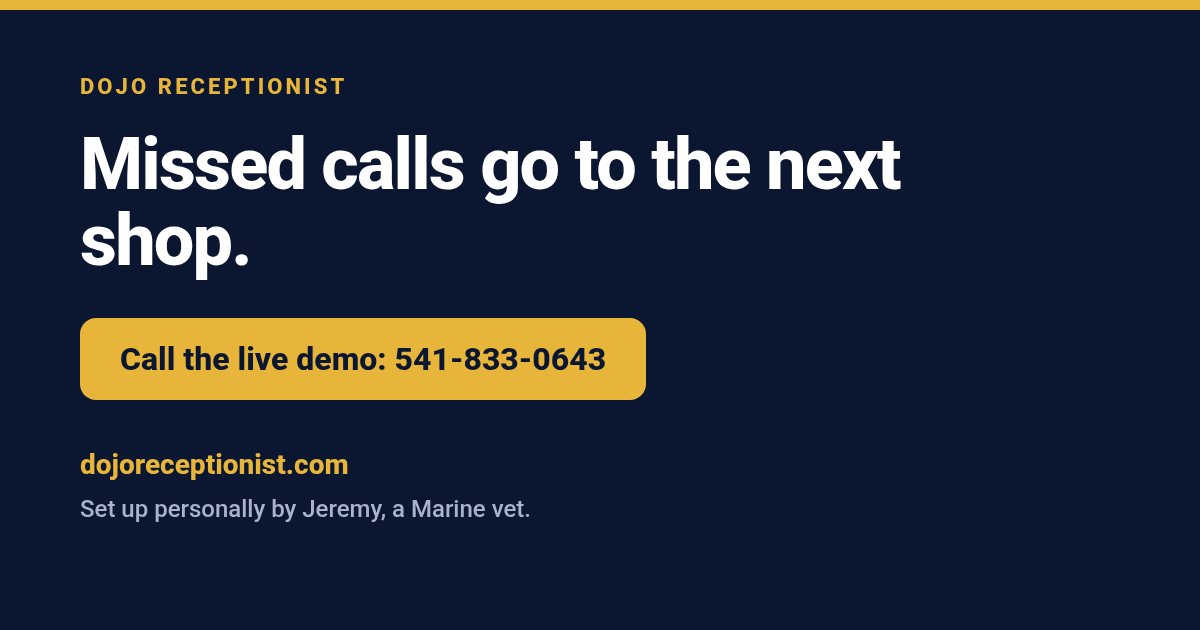
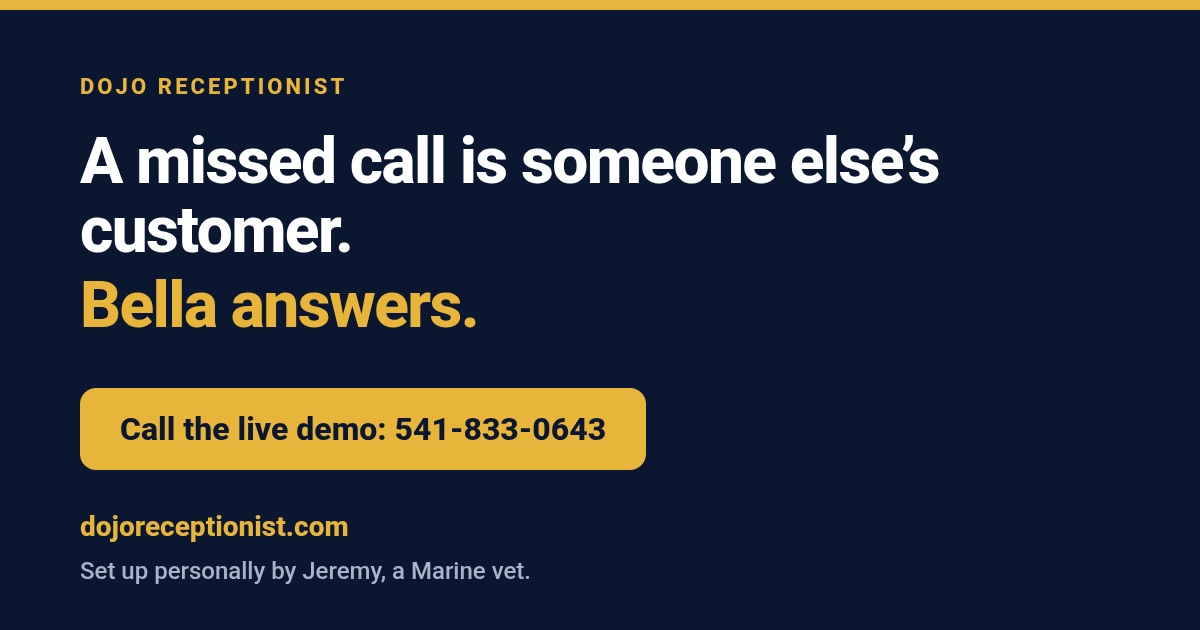
Match the partner-card hook in the hero, title, and share image.
Replace the truck headline with "A missed call is someone else's
customer" and a gold "Bella answers." Title, OG tags, and og-share.png
use the same line. Pricing, the three nevers, and the demo number are
unchanged.

Changed region(s): [[0.0617, 0.3317, 0.555, 0.754], [0.0617, 0.2111, 0.8017, 0.3317], [0.0617, 0.7841, 0.4317, 0.9349]]

diff --git a/index.html b/index.html
@@ -8,15 +8,15 @@
 <head>
 <meta charset="utf-8">
 <meta name="viewport" content="width=device-width,initial-scale=1,viewport-fit=cover">
-<title>Dojo Receptionist · Missed calls answered for owner-run shops</title>
-<meta name="description" content="Bella, an honest AI receptionist, answers your shop's missed and after-hours calls and emails you who called and what they need. Set up for you personally by Jeremy, a Marine vet.">
+<title>Dojo Receptionist · A missed call is someone else's customer</title>
+<meta name="description" content="A missed call is someone else's customer. Bella answers: an honest AI receptionist who takes the calls you miss and emails you who called and what they need. Set up for you personally by Jeremy, a Marine vet.">
 <meta name="theme-color" content="#0a0d18">
 <link rel="icon" href="/assets/favicon.ico" sizes="any">
 <link rel="icon" type="image/png" sizes="32x32" href="/assets/favicon-32.png">
 <link rel="icon" type="image/png" sizes="16x16" href="/assets/favicon-16.png">
 <link rel="apple-touch-icon" href="/assets/apple-touch-icon.png">
-<meta property="og:title" content="Dojo Receptionist · Missed calls answered for owner-run shops">
-<meta property="og:description" content="Bella answers the calls you miss, says she's an AI, and emails you who called and what they need. Set up for you personally by Jeremy, a Marine vet.">
+<meta property="og:title" content="Dojo Receptionist · A missed call is someone else's customer">
+<meta property="og:description" content="A missed call is someone else's customer. Bella answers: she takes the calls you miss, says she's an AI, and emails you who called and what they need. Set up for you personally by Jeremy, a Marine vet.">
 <meta property="og:image" content="https://dojoreceptionist.com/assets/og-share.png">
 <meta property="og:url" content="https://dojoreceptionist.com/">
 <meta name="twitter:card" content="summary_large_image">
@@ -327,8 +327,8 @@ footer p+p{margin-top:6px;font-size:var(--t-xs)}
   <div class="hero-grid">
    <div>
     <p class="eyebrow">Owner-run shops</p>
-    <!-- SWAP-TEST: broke. Headline + "Bella" + Marine vet setup line. -->
-    <h1>Under a truck when the phone rings?<em>Bella picks up.</em></h1>
+    <!-- SWAP-TEST: broke. Headline ("A missed call is someone else's customer" / "Bella answers") + Marine vet setup line. -->
+    <h1>A missed call is someone else's customer.<em>Bella answers.</em></h1>
     <p class="sub">She answers the calls you miss, says she's an AI, and emails you who called and what they need. Jeremy, a Marine vet, sets her up for you personally.</p>
     <div class="cta">
      <a class="btn g" href="tel:+15418330643"><svg class="i" aria-hidden="true"><use href="#i-phone"/></svg><span>Call Bella: 541-833-0643<small>Demo line. Play your own customer.</small></span></a>
